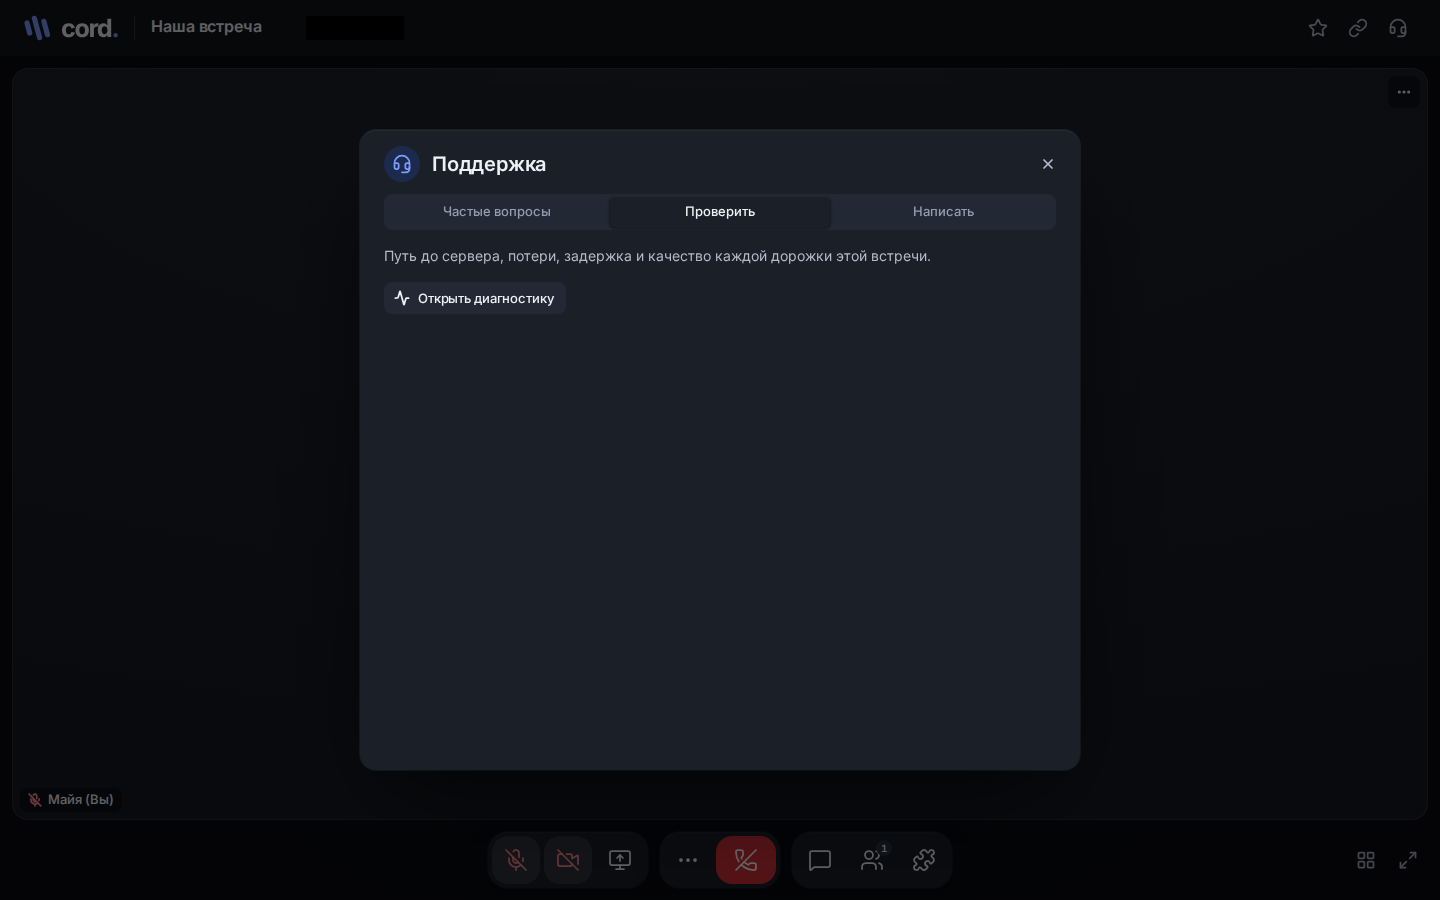
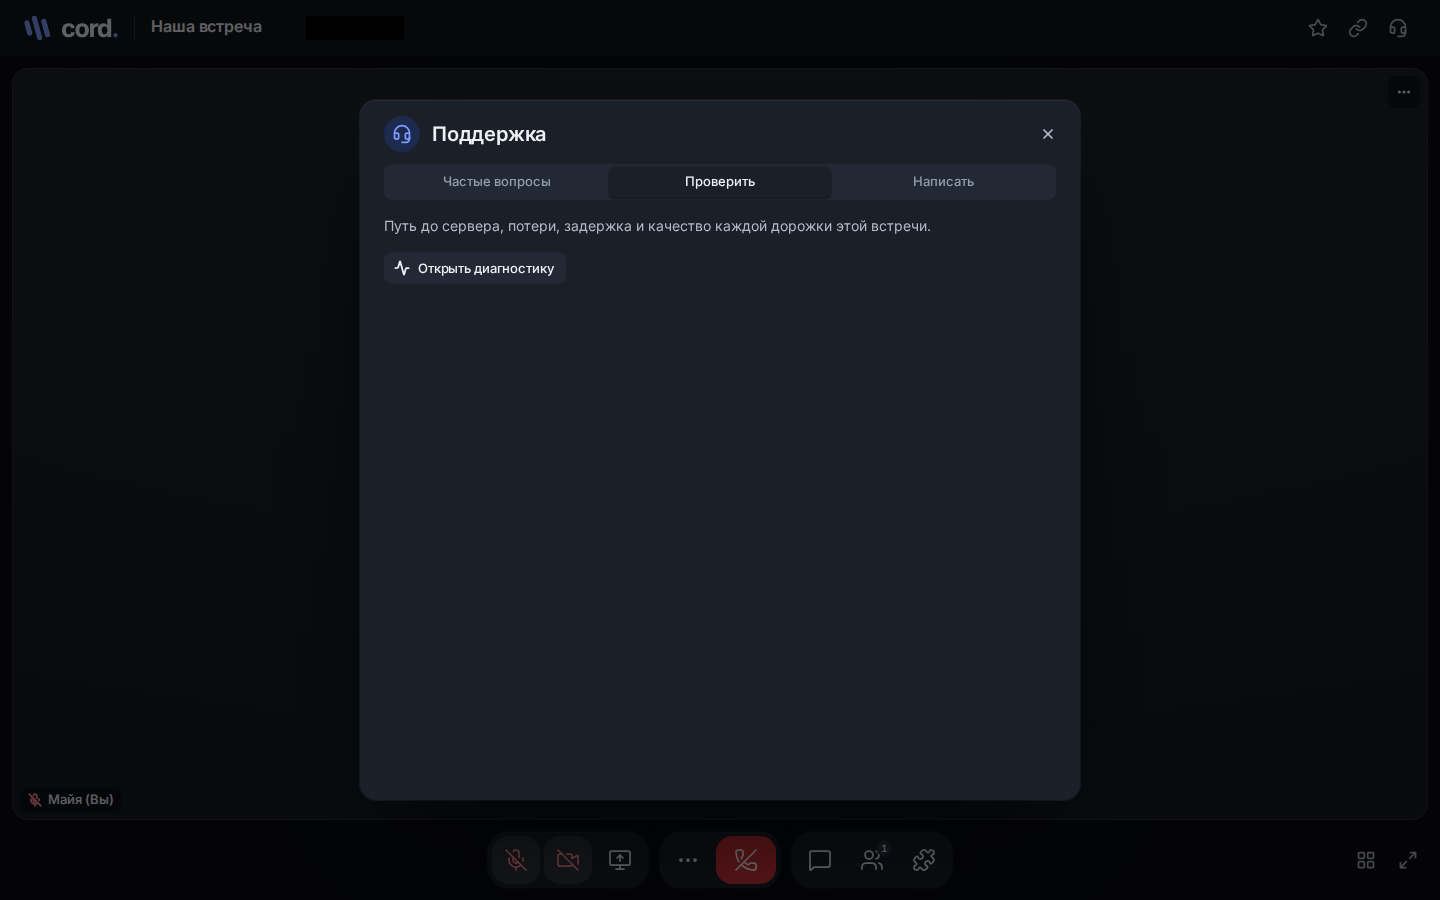
STATUS W6: e2e против стенда через stand-dev и в CI; снимки окна поддержки 700 px (r38, r79) пересняты

Changed region(s): [[0.25, 0.1244, 0.6562, 0.3422], [0.25, 0.84, 0.75, 0.9022], [0.625, 0.1867, 0.6562, 0.2489]]

diff --git a/backlog/review-1.0.3/STATUS.md b/backlog/review-1.0.3/STATUS.md
@@ -41,7 +41,7 @@
 | R35 | W5 | ждёт | |
 | R36 | W5 | ждёт | |
 | R37 | W6 | готово в ветке `review/w6` (24.10), не выкачено | `06118fe`: гарнитура `Headset` вместо «?» во всех кнопках поддержки (шапка встречи рядом со звездой и ссылкой — 20 px, как соседи; главная, предвход, подключение, ошибка эфира), имя «Поддержка» ×8, гарнитура и перед заголовком окна (kit `Dialog` `icon`); `help-host.test.tsx`, `home.test.tsx`, `prejoin.test.tsx`, e2e `support`, `onboarding`, `titlebar-overlay`, `focus-modality` переименованы; `shots/r37-header-{before,after}-*` |
-| R38 | W6 | готово в ветке `review/w6` (24.10), не выкачено | `06118fe`: вкладки «Частые вопросы · Проверить · Написать» (Base UI `Tabs`), вопросы аккордеоном (открыт один, без `<details>`), тема — чипами-радио, «Что будет отправлено» — кнопкой, окно постоянной высоты (700) с прокруткой внутри вкладки, недописанное переживает смену вкладки; та же разметка в окне, настройках и `/support`; `support/support.test.tsx` (11), `help-host.test.tsx` (7), e2e `support.spec` 5/5 и `onboarding` против стенда через `stand-dev`; `shots/r38-help{,-check,-write}-after-*`, `r38-help-before-*` |
+| R38 | W6 | готово в ветке `review/w6` (24.10), не выкачено | `06118fe`: вкладки «Частые вопросы · Проверить · Написать» (Base UI `Tabs`), вопросы аккордеоном (открыт один, без `<details>`), тема — чипами-радио, «Что будет отправлено» — кнопкой, окно постоянной высоты (700) с прокруткой внутри вкладки, недописанное переживает смену вкладки; та же разметка в окне, настройках и `/support`; `support/support.test.tsx` (11), `help-host.test.tsx` (7), e2e `support.spec` 5/5, `onboarding` 2/2, `focus-modality` 7/7 (кроме «Поддержка»: у спека свои `launchOptions`, он ходит на выкачанный стенд — зелёный в CI) против стенда через `stand-dev`; `shots/r38-help{,-check,-write}-after-*`, `r38-help-before-*` |
 | R39 | W4 | готово, выкачено (24.10, `d1e4f2b`, `services gateway`) | `03ac0dd` (службы: `services/yandex/device` без комнаты, токен устройству один раз, 5 кодов/мин с адреса; `test_yandex_device.py` 10), `6fd1d4c`, `297ea93`: «Аккаунты» → «Подключить» → «По QR-коду \| Токеном» (QR, три шага, код с «Скопировать», «Ждём подтверждения…», «Обновить код»), «Где взять токен»; тот же `YandexDeviceLogin` в музыке встречи; `Settings.test.tsx` «Аккаунты» (5), `core/accounts.test.ts`, e2e `settings-accounts.spec.ts` через stand-dev 7/7; `shots/r39-accounts-{open,token}-after-*` |
 | R40 | W4 | готово, выкачено (24.10, `d1e4f2b`, `services gateway`) | `ab51631`: «Аккаунт комнаты: …» удалено (`music.yandex.hint` ×8), до подключения — «Не подключено» |
 | R41 | W4 | готово, выкачено (24.10, `d1e4f2b`, `services gateway`) | `ab51631`: «Пароль вводится на странице Яндекса…» удалено (`music.yandex.note` ×8) |
@@ -82,7 +82,7 @@
 | R76 | W7 | готово, выкачено (24.10, `gateway`) (`da9c0c2`) | `ui/prejoin.css`: размеры плавно от ширины (`cqi`) и высоты (`dvh`), одна точка 2 → 1 колонка (контейнер 720), кнопка входа `sticky` к низу окна; e2e `meeting.spec`: 46 размеров 320…2560 × 480/600/714/720/900 + 2560×1440 — без горизонтальной прокрутки, кнопка в окне целиком, колонки с одной линии, превью в окне; проходы шагом 10 px по ширине (320→2560) и высоте (480→1440, 390×480→1000) — скачков > 25 px нет, кроме перехода колонок; против стенда через `stand-dev` и в CI 40121394385 (зелёный); `review-1.0.3/shots/r76-prejoin-{before,after}-{1440,390,1280x714}-*` |
 | R77 | W3 | готово, выкачено (24.10, `f893a81`) | `call-dock.test.tsx` (класс danger, MonitorX), e2e `screens.spec` (кнопка красная); на телефоне — красная кнопка на своей плитке; `screens/R103/W3/after/meeting-share-*` |
 | R78 | W1c, W2, W7 | медиа готово (22.10); UI настроек готов в ветке `review/W2` (сегменты 720/1080/1440 × 30/60, `QualityFields {kind,value,onChange,ceiling}`, `CAMERA_DEFAULT`); окно показа — W7 | `Settings.test.tsx` «Видео (R100, R78)», `preferences.test.ts` «камера: умолчание 720p30…», e2e `return-and-settings` (радио) |
-| R79 | W6 | готово в ветке `review/w6` (24.10), не выкачено (нужна выкатка `core` — V13) | `06118fe`: «Написать» → «Сообщить о проблеме» и кнопка в подвале диагностики (диагностика закрывается, поддержка — сразу там): чипы-флажки (звук обрывается, показ лагает, не слышно музыку, не подключается, другое), подробности по желанию, «Приложить отчёт о звонке» (вкл., виден до отправки; итог звонка — числа без имён); ядро: тема `report`, `issues` (только у неё и обязательно), V13 `support_tickets.issues`, «Что не так: …» в Telegram и «Обращениях» (DECISIONS Р-31); `SupportTest` 12/12, `core/support.test.ts`, `support.test.tsx`, `help-host.test.tsx`; e2e `diagnostics-help` против стенда через `stand-dev` — R49 и R79 зелёные (обращения подменены); `shots/r79-report-after-*` |
+| R79 | W6 | готово в ветке `review/w6` (24.10), не выкачено (нужна выкатка `core` — V13) | `06118fe`: «Написать» → «Сообщить о проблеме» и кнопка в подвале диагностики (диагностика закрывается, поддержка — сразу там): чипы-флажки (звук обрывается, показ лагает, не слышно музыку, не подключается, другое), подробности по желанию, «Приложить отчёт о звонке» (вкл., виден до отправки; итог звонка — числа без имён); ядро: тема `report`, `issues` (только у неё и обязательно), V13 `support_tickets.issues`, «Что не так: …» в Telegram и «Обращениях» (DECISIONS Р-31); `SupportTest` 12/12, `core/support.test.ts`, `support.test.tsx`, `help-host.test.tsx`; e2e `diagnostics-help` 1/1 против стенда через `stand-dev` (R49, R79, R53–R56, R51; обращения подменены) и в CI; `shots/r79-report-after-*` |
 | R80 | W1c, W7, W2 | медиа и «Видео» — выкачено; переключатель в окне показа — готово, выкачено (24.10, `gateway`) (`ef27202`) | «Показывать превью зрителям» в шестерёнке окна показа — то же поле `preferences.screen.preview`; `ui/capture-picker.test.tsx` (R80), e2e `capture-picker.spec.ts` (выключенное превью ушло в профиль показа) |
 | R81 | W1c, W7 | готово, выкачено (22.10, `5b4858d`); «Остановить показ» во время разгона показа — готово, выкачено (24.10, `gateway`) (`ef27202`) | screen-stop: 127 мс; `journal/2026-10-22-review-I1.md`; нажатие до кадра целевого размера раньше пропадало (`screenBusy`) — `media/session.test.ts` «Остановить показ во время разгона…» (красный до правки), e2e `capture-picker.spec.ts` |
 | R82 | W7, W2, WD2 | частично: n05 (окно показа Телемоста) — готово, выкачено (24.10, `gateway`) (`ef27202`); n04, n06–n11 — WD2, n08/n09 — W2 | сетка миниатюр, выбранная — обводкой акцента, «Звук компьютера» слева внизу, одна главная кнопка; `review-1.0.3/shots/r60-picker-after-*` |
@@ -97,7 +97,7 @@
 | R91 | W1c | готово, выкачено (22.10, `5b4858d`) | `hold.ts`/`upstream.ts` удалены, `maintain-resolution`, один слой |
 | R92 | W1c | готово (22.10) | MEDIA-DIAGNOSIS §9 — ответ |
 | R93 | WD2 | ждёт | |
-| R94 | W4, W6 | готово в ветке `review/w6` (24.10), не выкачено | `8dc9543`: Ctrl+V картинки в поле чата (`pastedImage`, скриншот без имени → `screenshot-<дата>-<время>.png`, текст вставляется как обычно) — плашка над полем: миниатюра 56/44, имя, размер, «Убрать»; так же скрепка (несколько файлов) и перетаскивание; Enter / «Отправить» — сначала вложения по одному (`Uploader.send`, очередью), затем подпись; Shift+Enter — перенос; не дошёл файл — подпись остаётся в поле; `chat-composer.test.tsx` (5), `chat.test.ts`, `uploader.test.ts`; e2e `meeting.spec` (скрепка → «Отправить») — в CI; `shots/r94-chat-{before,after}-*` |
+| R94 | W4, W6 | готово в ветке `review/w6` (24.10), не выкачено | `8dc9543`: Ctrl+V картинки в поле чата (`pastedImage`, скриншот без имени → `screenshot-<дата>-<время>.png`, текст вставляется как обычно) — плашка над полем: миниатюра 56/44, имя, размер, «Убрать»; так же скрепка (несколько файлов) и перетаскивание; Enter / «Отправить» — сначала вложения по одному (`Uploader.send`, очередью), затем подпись; Shift+Enter — перенос; не дошёл файл — подпись остаётся в поле; `chat-composer.test.tsx` (5), `chat.test.ts`, `uploader.test.ts`; e2e `meeting.spec` «two real browser contexts» (скрепка → превью → «Отправить», файл у обоих) — зелёный в CI; через `stand-dev` загрузка встала вместе с сигналом LiveKit на прокси Vite (`ws proxy error`), не продукт; `shots/r94-chat-{before,after}-*` |
 | R95 | W1c, W7 | режимы в профиле выкачены (22.10); UI — готово, выкачено (24.10, `gateway`) (`ef27202`) | сегмент «Чёткость / Плавность» в окне показа, сводка «Чёткость · 1080p · до 60 fps»; `ui/capture-picker.test.tsx` |
 | R96 | W1c | частично (22.10) | MEDIA §9 решения внедрены; нативный путь — WD2 |
 | R97 | W1c | готово, выкачено (22.10, `5b4858d`) | `MediaRoomCloser` afterCommit; RoomServiceTest, MediaRoomCloserTest |
